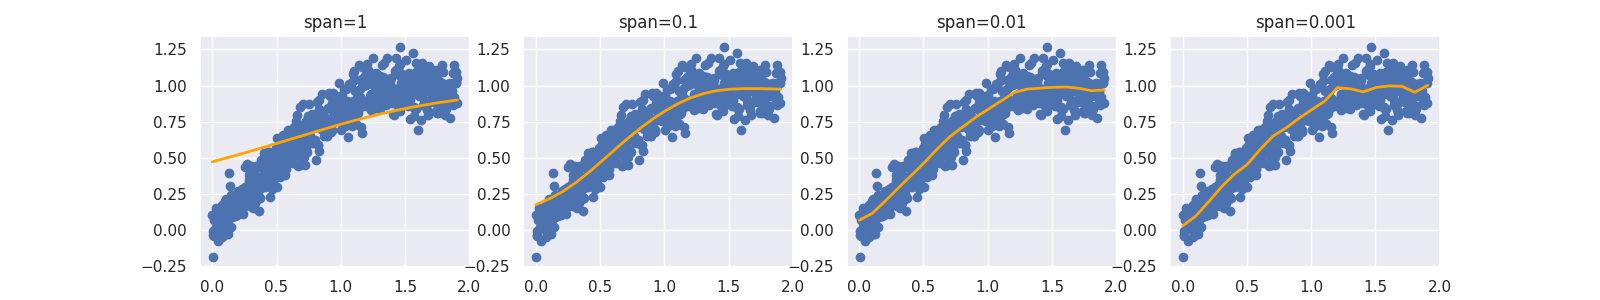
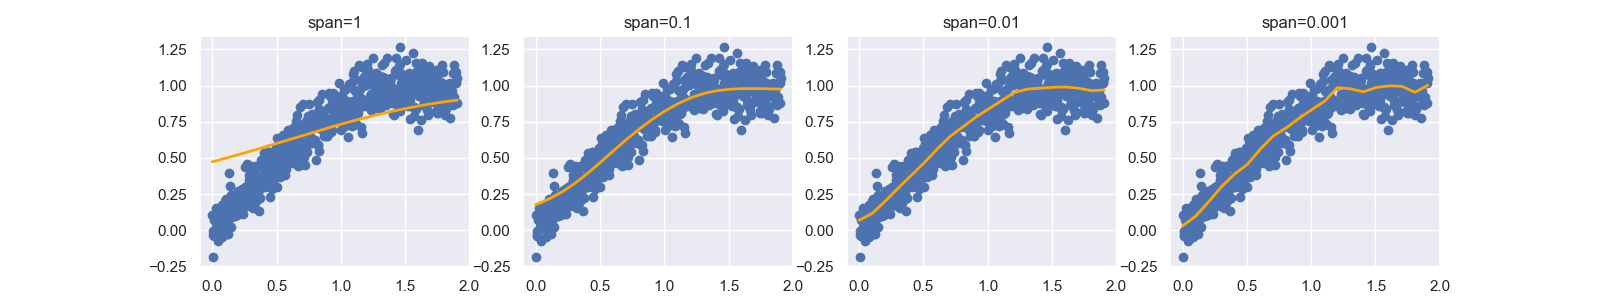
reran-plot-script

diff --git a/docs/_scripts/preprocessing.py b/docs/_scripts/preprocessing.py
@@ -329,8 +329,6 @@ plt.clf()
 
 ######################################## Monotonic Spline #######################################
 
-print("Monotonic Spline")
-
 # --8<-- [start:monotonic-spline]
 import matplotlib.pylab as plt
 import numpy as np
